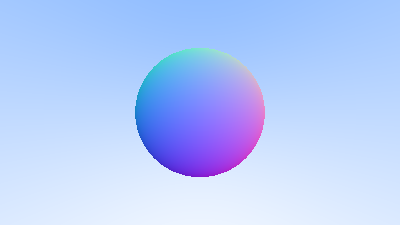
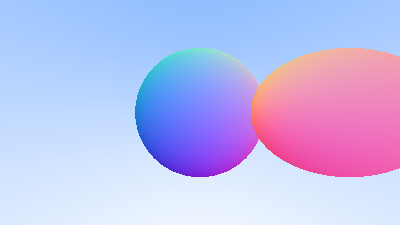
esfera com hit

Changed region(s): [[0.63, 0.1867, 1.0, 0.8089]]

diff --git a/main.py b/main.py
@@ -62,26 +62,25 @@ def create_image_array(width, height, vw, vh, origin, vertical, horizontal, lowe
     
     # centro da esfera
     p = Point(0,0,-1)
+    p2 = Point(1,0,-1)
 
     # calcula todas as interseccoes com a esfera
     sph = Sphere(p, 0.5)
-    hits, a, b = sph.hit(r, None, None)
+    hits1 = sph.hit(r, 0, np.inf)
+    sph2 = Sphere(p2, 0.5)
+    hits2 = sph2.hit(r, 0, np.inf)
+    hits = np.maximum(hits1, hits2)
 
-    # cria mascara para fazer calculo apenas com os acertos
-    mask = (hits < 0)
-    # seleciona menor raiz da interseccao, eh sempre a mais proxima da camera
-    hits[~mask] = (-b[~mask] - np.sqrt(hits[~mask])) / a[~mask]
-    # retorna -1 quando nao atinge a esfera
-    hits[mask] = -1.
-
+    # mascara para acertos
     mask = (hits > 0.0)
+    print(len(hits[mask]))
     # cria raios com acertos e com fundo
-    r1 = Ray(r.origin, Vec3(r.direction.x[mask], r.direction.y[mask], -1.0))
-    r2 = Ray(r.origin, Vec3(r.direction.x[~mask], r.direction.y[~mask], -1.0))
+    r_hit = Ray(r.origin, Vec3(r.direction.x[mask], r.direction.y[mask], -1.0))
+    r_no_hit = Ray(r.origin, Vec3(r.direction.x[~mask], r.direction.y[~mask], -1.0))
 
     # calcula cor dos raios
-    a_hit = np.stack(shade(r1, hits[mask]).components(), axis=1)*255.999
-    a_not_hit = np.stack(lerp(r2, hits[~mask]).components(), axis=1)*255.999
+    a_hit = np.stack(shade(r_hit, hits[mask]).components(), axis=1)*255.999
+    a_no_hit = np.stack(lerp(r_no_hit, hits[~mask]).components(), axis=1)*255.999
 
     # cria mascara para popular o vetor com cores
     mask = np.reshape(mask, (height, width))
@@ -90,7 +89,7 @@ def create_image_array(width, height, vw, vh, origin, vertical, horizontal, lowe
 
     # popula array de acordo com a mascara
     pixel_color[mask] = a_hit
-    pixel_color[~mask] = a_not_hit
+    pixel_color[~mask] = a_no_hit
 
     # modifica formato do vetor para ser aceito pela funcao de criar imagem
     return np.reshape(pixel_color, (height, width, 3))#.astype(np.uint8)

diff --git a/src/hittable/sphere.py b/src/hittable/sphere.py
@@ -12,10 +12,36 @@ class Sphere(Hittable):
         self.center = center
         self.radius = radius
 
-    def hit(self, r, t_min, t_max):
+    def hitold(self, r, t_min, t_max):
         oc = r.origin - self.center
         a = r.direction.length_squared()
         half_b = oc.dot(r.direction)
         c = oc.length_squared() - self.radius**2
         discriminant = half_b**2 - a*c
         return discriminant, a, half_b
+    
+    def hit(self, r, t_min, t_max):
+        # calcula o delta
+        oc = r.origin - self.center
+        a = r.direction.length_squared()
+        half_b = oc.dot(r.direction)
+        c = oc.length_squared() - self.radius**2
+        discriminant = half_b**2 - a*c
+        
+        # realiza bhaskara para encontrar raizes
+        # calcula primeiro menor raiz da interseccao, eh sempre a mais proxima da camera
+        roots = discriminant.copy()
+        mask = (roots < t_min) | (roots > t_max)
+        roots[~mask] = (-half_b[~mask] - np.sqrt(roots[~mask]))/a[~mask]
+        roots = np.nan_to_num(roots, nan=t_min-1)
+
+        # calcula a segunda raiz apenas para as que precisarem
+        # mask = (roots < t_min) | (roots > t_max)
+        # roots[mask] = (-half_b[mask] + np.sqrt(roots[mask]))/a[mask]
+        # roots = np.nan_to_num(roots, nan=t_min-1)
+
+        # retorna -1 quando nao atinge a esfera
+        mask = (roots < t_min) | (roots > t_max)
+        roots[mask] = -1
+
+        return roots
